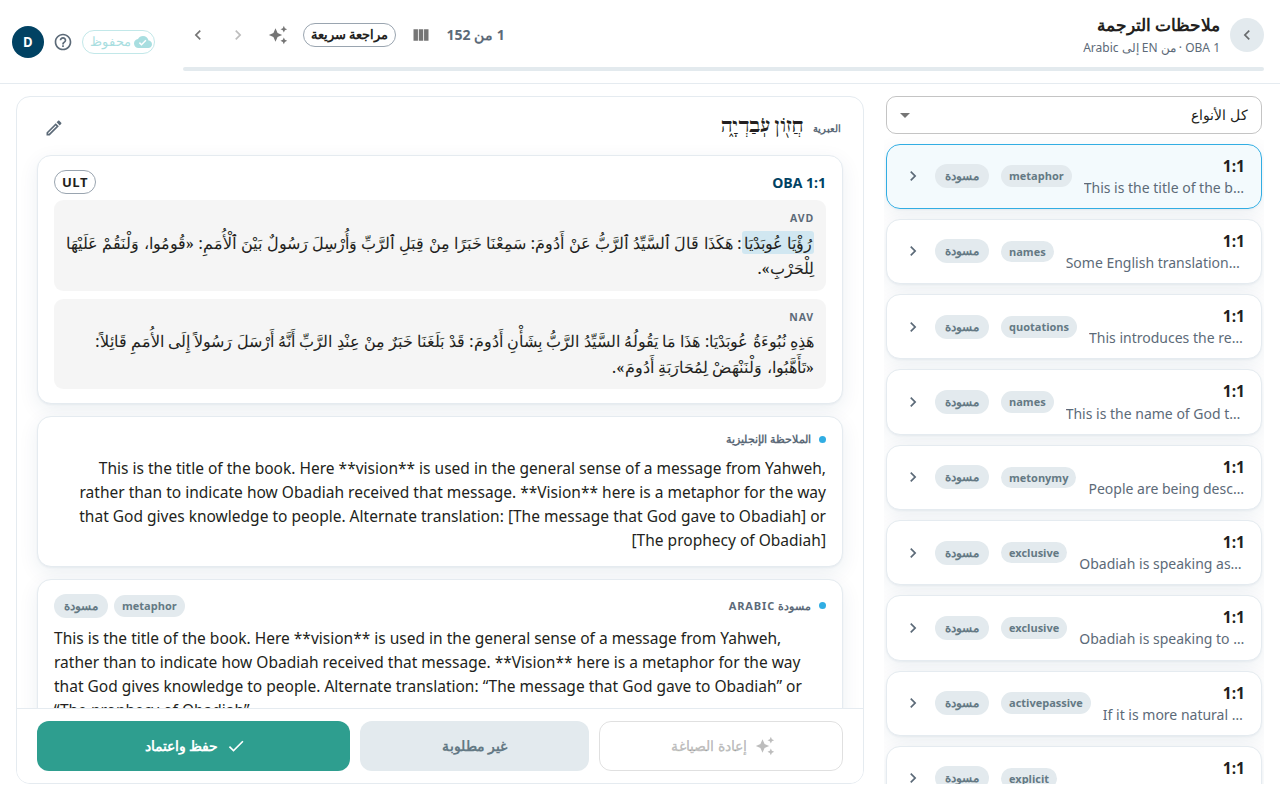
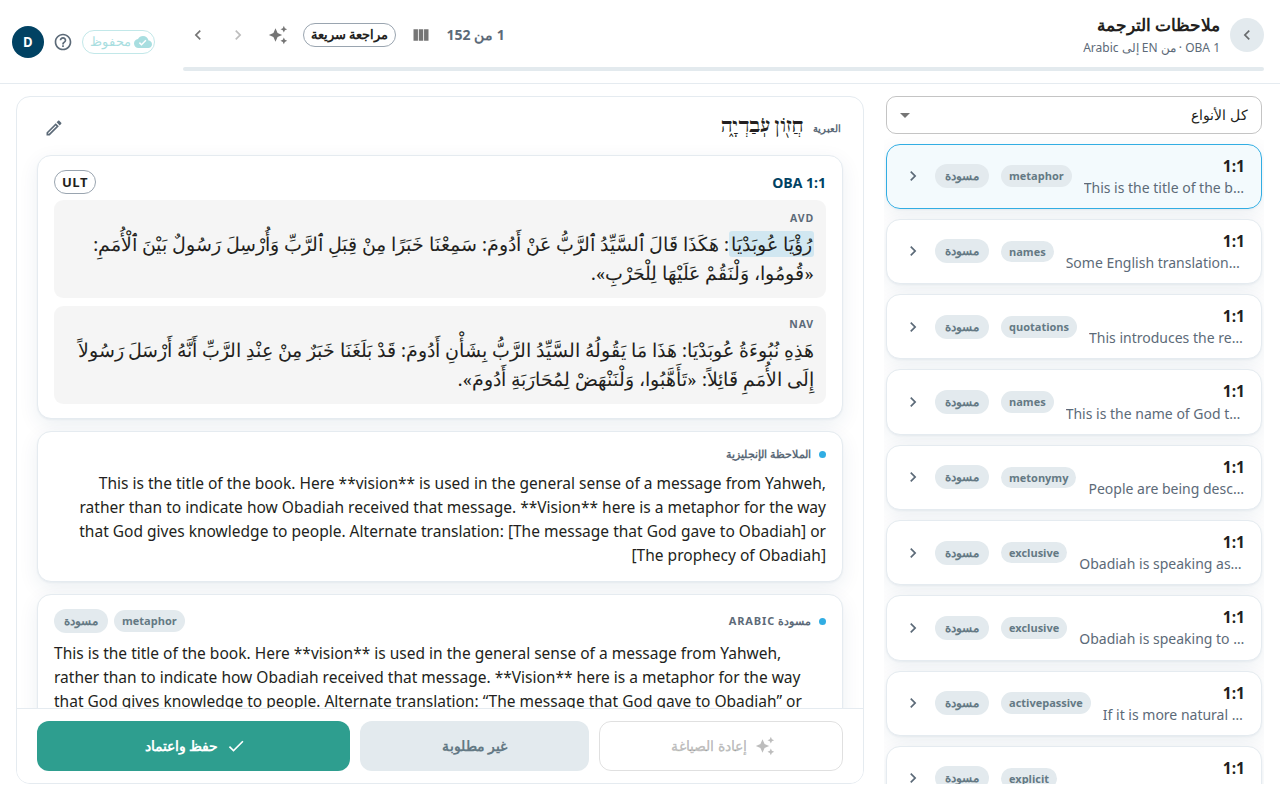
Notes screen: draw Arabic text 1.15x larger (#839)
* Notes screen: draw Arabic text 1.15x larger

Arabic script reads a size smaller than Latin at the same CSS font size, so on the notes screen the AR_AVD / AR_NAV lanes and the Arabic target note looked smaller than the English ULT beside them. Arabic-script text now gets calc(<size> * 1.15) in both layouts: the card view's lanes, target note and editor, and rapid check's pinned lanes, per-verse group lanes, target note cell and editor.

Keyed on the text's first letter (the same rule dir="auto" uses), not the project language, because an Arabic-target project still shows English text (English placeholder drafts, the English source ULT lane; #256) that must keep its size. The editor falls back to the project language while it holds no letter, so an empty Arabic editor does not grow on the first keystroke. UI chrome, labels and the English note column are unchanged.

Claude-Session: https://claude.ai/code/session_01RtcQrJMpALLRDWXSjcnM9c

* Guide: recapture Arabic notes screenshots; tighten the editor check

The Arabic guide pictures (notes-1, notes-phone, notes-rapid) show the AVD/NAV lanes at the new size. The spec now checks that the editor really moved to the English row before reading its size (review finding).

Claude-Session: https://claude.ai/code/session_01RtcQrJMpALLRDWXSjcnM9c

Changed region(s): [[0.0312, 0.5312, 0.6562, 0.9062], [0.0312, 0.2812, 0.6562, 0.5]]

diff --git a/tests/concurrency/notes-arabic-size.spec.ts b/tests/concurrency/notes-arabic-size.spec.ts
@@ -1,0 +1,144 @@
+import { expect, test, type Browser, type BrowserContext, type Locator, type Page } from "@playwright/test";
+import { fetchChapter, newUserContext, type TnRow } from "./helpers";
+import { RTL_FIXTURE } from "./global-setup";
+
+// Arabic text on the notes screen is drawn 1.15x larger than English at the
+// same CSS size, because Arabic script reads a size smaller
+// (web/src/lib/arabicScriptSize.ts). Covers both layouts: the card view's
+// lanes, rapid check's pinned lanes and per-verse group lanes, the target
+// note text and its editor. English text in the same places keeps its size.
+//
+// Read-only. Uses global-setup's RTL fixture: ZEC 6:1's ULT is Arabic and
+// its UST English; note f66i (ZEC 6:11) is Arabic, the other notes English.
+
+const SCALE = 1.15;
+const { book: BOOK, chapter: CHAPTER } = RTL_FIXTURE;
+
+test.describe.configure({ timeout: 120_000 });
+
+const openContexts: BrowserContext[] = [];
+test.afterEach(async () => {
+  for (const c of openContexts.splice(0)) await c.close().catch(() => {});
+});
+
+type Row = TnRow & { trashed_at?: number | null; support_reference?: string | null };
+
+/** Computed font size in px. */
+function px(locator: Locator): Promise<number> {
+  return locator.evaluate((el) => parseFloat(getComputedStyle(el as HTMLElement).fontSize));
+}
+
+/** The English UST of ZEC 6:1 (first words) and the chapter's notes. */
+async function probe(browser: Browser): Promise<{ english: string; rows: Row[] }> {
+  const { context, auth } = await newUserContext(browser, "arabic-size-probe");
+  openContexts.push(context);
+  const chap = await fetchChapter(context.request, auth.token, BOOK, CHAPTER);
+  const ust = (chap as unknown as {
+    verses?: Record<string, Record<string, { plain_text?: string }>>;
+  }).verses?.UST?.[String(RTL_FIXTURE.verse)]?.plain_text;
+  expect(ust, "expected an English UST for the fixture verse").toBeTruthy();
+  return {
+    english: ust!.split(/\s+/).slice(0, 6).join(" "),
+    rows: (chap.tn as Row[]).filter((r) => r.trashed_at == null),
+  };
+}
+
+async function open(browser: Browser, user: string, hashTail: string, rapid: boolean): Promise<Page> {
+  const { context } = await newUserContext(browser, user);
+  openContexts.push(context);
+  await context.addInitScript((on) => {
+    try {
+      localStorage.setItem("be:notesRapidCheck", String(on));
+    } catch {
+      /* private mode */
+    }
+  }, rapid);
+  const page = await context.newPage();
+  await page.setViewportSize({ width: 1366, height: 768 });
+  await page.route("https://git.door43.org/**", (route) => route.fulfill({ status: 404, body: "not mocked" }));
+  await page.goto(`/#/notes/${BOOK}/${CHAPTER}/${hashTail}`);
+  return page;
+}
+
+/** Arabic is SCALE x the English beside it, and the English kept `englishPx`. */
+async function expectScaled(arabic: Locator, english: Locator, englishPx: number, what: string) {
+  await expect(arabic, what).toBeVisible({ timeout: 20_000 });
+  await expect(english, what).toBeVisible();
+  const [a, e] = [await px(arabic), await px(english)];
+  expect(e, `${what}: English size unchanged`).toBeCloseTo(englishPx, 2);
+  expect(a / e, `${what}: Arabic ${a}px vs English ${e}px`).toBeCloseTo(SCALE, 2);
+}
+
+test("card view: the Arabic lane and note are drawn larger, English is unchanged", async ({ browser }) => {
+  const { english } = await probe(browser);
+  const page = await open(browser, "arabic-size-cards", String(RTL_FIXTURE.verse), false);
+  // Lane text is 1.03rem in the card view.
+  await expectScaled(
+    page.locator('span[dir="auto"]').filter({ hasText: RTL_FIXTURE.arabicUlt }),
+    page.locator('span[dir="auto"]').filter({ hasText: english }).first(),
+    16.48,
+    "card lane",
+  );
+
+  // The Arabic note, read-only and in its editor (0.97rem for English).
+  await page.goto(`/#/notes/${BOOK}/${CHAPTER}/${RTL_FIXTURE.noteVerse}?row=${RTL_FIXTURE.noteId}`);
+  const note = page.locator('[role="button"][dir="auto"]').filter({ hasText: RTL_FIXTURE.arabicNote });
+  await expect(note).toBeVisible({ timeout: 20_000 });
+  expect(await px(note)).toBeCloseTo(15.52 * SCALE, 2);
+  await note.click();
+  const editor = page.locator("textarea:not([aria-hidden])").first();
+  await expect(editor).toHaveValue(RTL_FIXTURE.arabicNote);
+  expect(await px(editor)).toBeCloseTo(15.52 * SCALE, 2);
+});
+
+test("rapid check: Arabic lanes, group lanes, note and editor are drawn larger", async ({ browser }) => {
+  const { english, rows } = await probe(browser);
+  const page = await open(browser, "arabic-size-rapid", String(RTL_FIXTURE.verse), true);
+  const list = page.locator("[data-rapid-check]");
+  await expect(list).toBeVisible({ timeout: 20_000 });
+
+  // The pinned verse block (0.9375rem lanes).
+  const block = page.locator("[data-rapid-verse-block]");
+  await expectScaled(
+    block.locator('span[dir="auto"]').filter({ hasText: RTL_FIXTURE.arabicUlt }),
+    block.locator('span[dir="auto"]').filter({ hasText: english }),
+    15,
+    "pinned lane",
+  );
+
+  // Type-filter mode: the verse group's own lanes.
+  const slug = (rows.find((r) => r.verse === RTL_FIXTURE.verse && r.support_reference)?.support_reference ?? "")
+    .split("/")
+    .pop();
+  expect(slug, `ZEC ${CHAPTER}:${RTL_FIXTURE.verse} needs a note with a type`).toBeTruthy();
+  await page.locator('[aria-label="Filter notes by type"] [role="combobox"]').click();
+  await page.locator(`li[role="option"][title="${slug}"]`).click();
+  const group = list.locator(`[data-rapid-lanes="${RTL_FIXTURE.verse}"]`);
+  await expectScaled(
+    group.locator('[data-rapid-group-lane-text="lit"]'),
+    group.locator('[data-rapid-group-lane-text="sim"]'),
+    15,
+    "group lane",
+  );
+
+  // The Arabic note's target cell beside an English one (0.9375rem), then
+  // each one's editor (0.97rem).
+  await page.goto(`/#/notes/${BOOK}/${CHAPTER}/${RTL_FIXTURE.noteVerse}?row=${RTL_FIXTURE.noteId}`);
+  const other = rows.find((r) => r.id !== RTL_FIXTURE.noteId && r.verse === RTL_FIXTURE.noteVerse && r.note);
+  expect(other, `ZEC ${CHAPTER}:${RTL_FIXTURE.noteVerse} needs a second, English note`).toBeDefined();
+  const arabicCell = list.locator(`[data-rapid-row="${RTL_FIXTURE.noteId}"] span[dir="auto"]`).filter({
+    hasText: RTL_FIXTURE.arabicNote,
+  });
+  const englishCell = list.locator(`[data-rapid-row="${other!.id}"] button span[dir="auto"]`);
+  await expectScaled(arabicCell, englishCell, 15, "note cell");
+
+  const editor = list.locator("textarea:not([aria-hidden])").first();
+  await arabicCell.click();
+  await expect(editor).toHaveValue(RTL_FIXTURE.arabicNote);
+  expect(await px(editor)).toBeCloseTo(15.52 * SCALE, 2);
+  await englishCell.click();
+  // The editor moved to the English row and holds its (Latin) text.
+  await expect(list.locator(`[data-rapid-row="${other!.id}"]`)).toHaveAttribute("aria-current", "true");
+  await expect(editor).toHaveValue(/^[^\p{Script=Arabic}]*[A-Za-z]/u);
+  expect(await px(editor), "English editor unchanged").toBeCloseTo(15.52, 2);
+});

diff --git a/web/src/components/flows/TranslateNotesScreen.tsx b/web/src/components/flows/TranslateNotesScreen.tsx
@@ -202,6 +202,7 @@ import {
   type TqRow,
 } from "../../sync/api";
 import { SCRIPTURE_FONT_STACK } from "../../theme";
+import { arabicFontSize, editsArabicScript, startsArabicScript } from "../../lib/arabicScriptSize";
 
 export interface TranslateNotesScreenProps extends FlowScreenContext {
   book: string;
@@ -296,8 +297,13 @@ function Lane({ label, text, segments, labelFontFamily, mark }: LaneProps) {
       {text ? (
         // dir="auto" follows the *content*: Arabic lane text lays out RTL with
         // trailing punctuation on the correct side, English stays LTR. The
-        // label above keeps the container's direction.
-        <Box component="span" dir="auto" sx={{ display: "block", textAlign: "start" }}>
+        // label above keeps the container's direction. Arabic is drawn a size
+        // larger to match the English (arabicScriptSize).
+        <Box
+          component="span"
+          dir="auto"
+          sx={{ display: "block", textAlign: "start", fontSize: arabicFontSize("1em", startsArabicScript(text)) }}
+        >
           {mark(segments)}
         </Box>
       ) : (
@@ -2338,7 +2344,8 @@ export default function TranslateNotesScreen({ book, chapter, verse, rowId, role
           "& .MuiOutlinedInput-root": {
             bgcolor: "action.hover",
             borderRadius: "9px",
-            fontSize: "0.97rem",
+            // Arabic a size larger, as in the read-only note (arabicScriptSize).
+            fontSize: arabicFontSize("0.97rem", editsArabicScript(draftValue, projectConfig?.languageCode)),
             lineHeight: 1.55,
           },
           "& .MuiOutlinedInput-notchedOutline": {
@@ -2641,7 +2648,7 @@ export default function TranslateNotesScreen({ book, chapter, verse, rowId, role
                       paddingInline: 0.5,
                       marginBlock: -0.25,
                       marginInline: -0.5,
-                      fontSize: "0.97rem",
+                      fontSize: arabicFontSize("0.97rem", startsArabicScript(draftValue)),
                       lineHeight: 1.55,
                       whiteSpace: "pre-wrap",
                       textAlign: "start",

diff --git a/web/src/lib/arabicScriptSize.ts b/web/src/lib/arabicScriptSize.ts
@@ -1,0 +1,44 @@
+// Arabic script draws smaller than Latin at the same CSS font size (a smaller
+// x-height), so Arabic scripture and notes beside English read as a size
+// smaller. The notes screen enlarges Arabic-script text by this factor.
+//
+// Keyed on the text itself, the same way `dir="auto"` picks its direction:
+// the first letter decides. An Arabic-target project can still hold English
+// text (placeholder drafts, an English lane; #256), and that must stay at its
+// normal size. A Latin token inside an Arabic sentence ("AVD") grows with it.
+export const ARABIC_SCRIPT_SCALE = 1.15;
+
+const LETTER = /\p{L}/u;
+const ARABIC = /\p{Script=Arabic}/u;
+
+/** The first letter of `text` is Arabic script (Arabic, Persian, Urdu, ...). */
+export function startsArabicScript(text: string | null | undefined): boolean {
+  if (!text) return false;
+  const first = LETTER.exec(text);
+  return first != null && ARABIC.test(first[0]);
+}
+
+/** A BCP 47 language code written in Arabic script ("ar", "fa", "ur", "ar-SA"). */
+export function isArabicScriptLanguage(code: string | null | undefined): boolean {
+  if (!code) return false;
+  try {
+    return new Intl.Locale(code).maximize().script === "Arab";
+  } catch {
+    // "ar_SA" and other malformed codes throw.
+    return false;
+  }
+}
+
+/**
+ * For an editor: its text decides once it holds a letter; until then the
+ * project language does, so an empty Arabic editor does not grow on the
+ * first keystroke.
+ */
+export function editsArabicScript(text: string | null | undefined, languageCode: string | null | undefined): boolean {
+  return text && LETTER.test(text) ? startsArabicScript(text) : isArabicScriptLanguage(languageCode);
+}
+
+/** `size` (any CSS length) enlarged when `arabic`, unchanged otherwise. */
+export function arabicFontSize(size: string, arabic: boolean): string {
+  return arabic ? `calc(${size} * ${ARABIC_SCRIPT_SCALE})` : size;
+}

diff --git a/web/src/components/flows/RapidVerseLanes.tsx b/web/src/components/flows/RapidVerseLanes.tsx
@@ -16,6 +16,7 @@ import type { VerseDto } from "../../sync/api";
 import { coveredLaneSlices } from "../../lib/verseRange";
 import { flowLaneSegmentsForQuotes, type FlowQuote, type FlowSegment } from "../../lib/flowHighlight";
 import { SCRIPTURE_FONT_STACK } from "../../theme";
+import { arabicFontSize, startsArabicScript } from "../../lib/arabicScriptSize";
 
 export interface RapidLaneSpec {
   key: string;
@@ -52,6 +53,7 @@ export const RapidVerseLanes = memo(function RapidVerseLanes({
           key: lane.key,
           label: lane.label,
           text: plainText,
+          arabic: startsArabicScript(plainText),
           segments: plainText ? flowLaneSegmentsForQuotes(slices, quotes) : [],
         };
       }),
@@ -88,7 +90,8 @@ export const RapidVerseLanes = memo(function RapidVerseLanes({
           {lane.text ? (
             // dir="auto" follows the content, as in the pinned block: an
             // Arabic literal lays out RTL with its punctuation on the
-            // correct side, the English ULT stays LTR.
+            // correct side, the English ULT stays LTR. Arabic is drawn a
+            // size larger to match the English.
             <Box
               component="p"
               dir="auto"
@@ -97,7 +100,7 @@ export const RapidVerseLanes = memo(function RapidVerseLanes({
                 m: 0,
                 textAlign: "start",
                 fontFamily: SCRIPTURE_FONT_STACK,
-                fontSize: "0.9375rem",
+                fontSize: arabicFontSize("0.9375rem", lane.arabic),
                 lineHeight: 1.5,
                 minWidth: 0,
               }}

diff --git a/web/src/components/flows/RapidVerseBlock.tsx b/web/src/components/flows/RapidVerseBlock.tsx
@@ -28,6 +28,7 @@ import { useTheme } from "@mui/material/styles";
 import { useTranslation } from "react-i18next";
 import type { FlowSegment } from "../../lib/flowHighlight";
 import { SCRIPTURE_FONT_STACK } from "../../theme";
+import { arabicFontSize, startsArabicScript } from "../../lib/arabicScriptSize";
 
 export interface RapidLane {
   /** Stable id: the resource the pref is keyed by. */
@@ -211,7 +212,8 @@ export function RapidVerseBlock({
                 {l.caption}
                 {l.body ??
                   (l.text ? (
-                    // dir="auto" follows the content, as in the card view's Lane.
+                    // dir="auto" follows the content, as in the card view's Lane;
+                    // Arabic text is drawn a size larger to match the English.
                     <Box
                       component="span"
                       dir="auto"
@@ -219,7 +221,7 @@ export function RapidVerseBlock({
                         display: "block",
                         textAlign: "start",
                         fontFamily: SCRIPTURE_FONT_STACK,
-                        fontSize: "0.9375rem",
+                        fontSize: arabicFontSize("0.9375rem", startsArabicScript(l.text)),
                         lineHeight: 1.5,
                       }}
                     >

diff --git a/web/src/components/flows/NotesRapidCheck.tsx b/web/src/components/flows/NotesRapidCheck.tsx
@@ -19,6 +19,7 @@ import { useTranslation } from "react-i18next";
 import { FlowStatusChip, type FlowStatusKind } from "./FlowStatusChip";
 import { RapidColumnHeader } from "./RapidColumnHeader";
 import { SCRIPTURE_FONT_STACK } from "../../theme";
+import { arabicFontSize, startsArabicScript } from "../../lib/arabicScriptSize";
 import { RapidBulkBar, RapidBulkResultLine, type RapidBulkProps } from "./RapidBulkBar";
 
 export interface RapidCheckRow {
@@ -649,7 +650,8 @@ export function NotesRapidCheck(props: NotesRapidCheckProps) {
                           "&:hover": { borderColor: "divider", bgcolor: "action.hover" },
                         }}
                       >
-                        <Box component="span" dir="auto" sx={{ display: "block", fontSize: "0.9375rem", lineHeight: 1.5, whiteSpace: "pre-wrap", textAlign: "start" }}>
+                        {/* Arabic is drawn a size larger to match the English (arabicScriptSize). */}
+                        <Box component="span" dir="auto" sx={{ display: "block", fontSize: arabicFontSize("0.9375rem", startsArabicScript(r.targetText)), lineHeight: 1.5, whiteSpace: "pre-wrap", textAlign: "start" }}>
                           {r.targetText.trim().length > 0 ? (
                             r.targetText
                           ) : (
